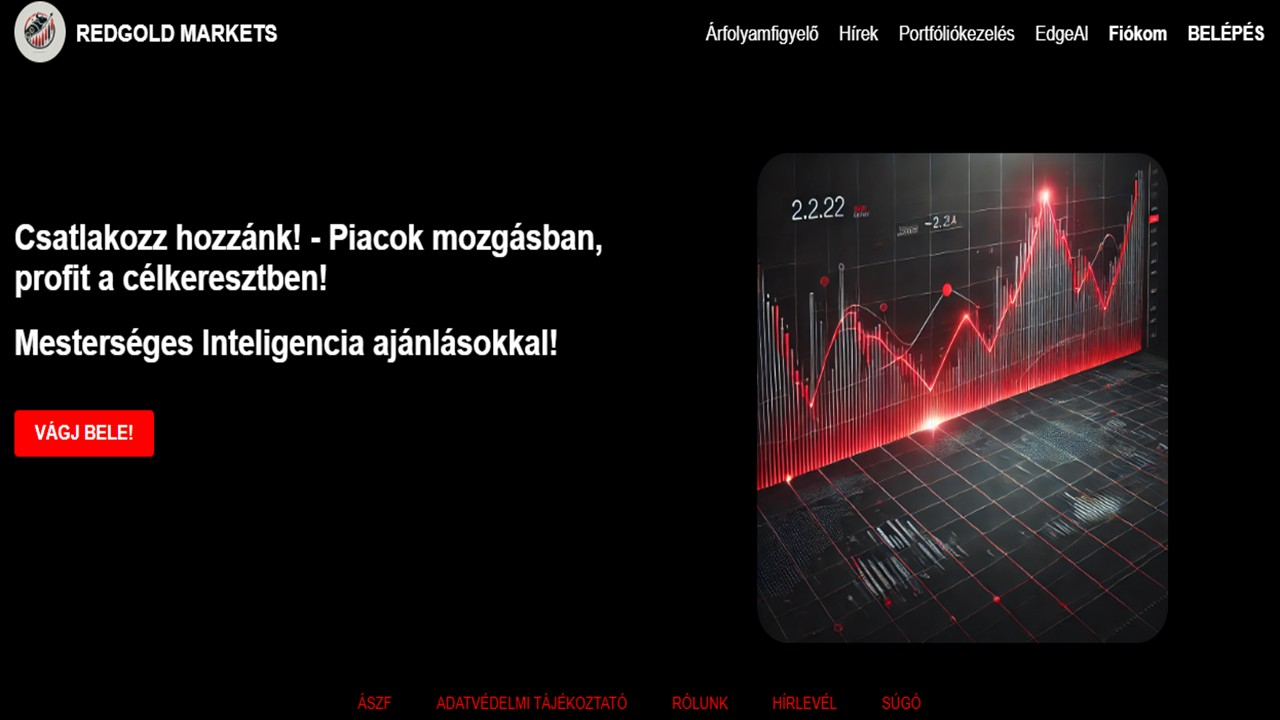
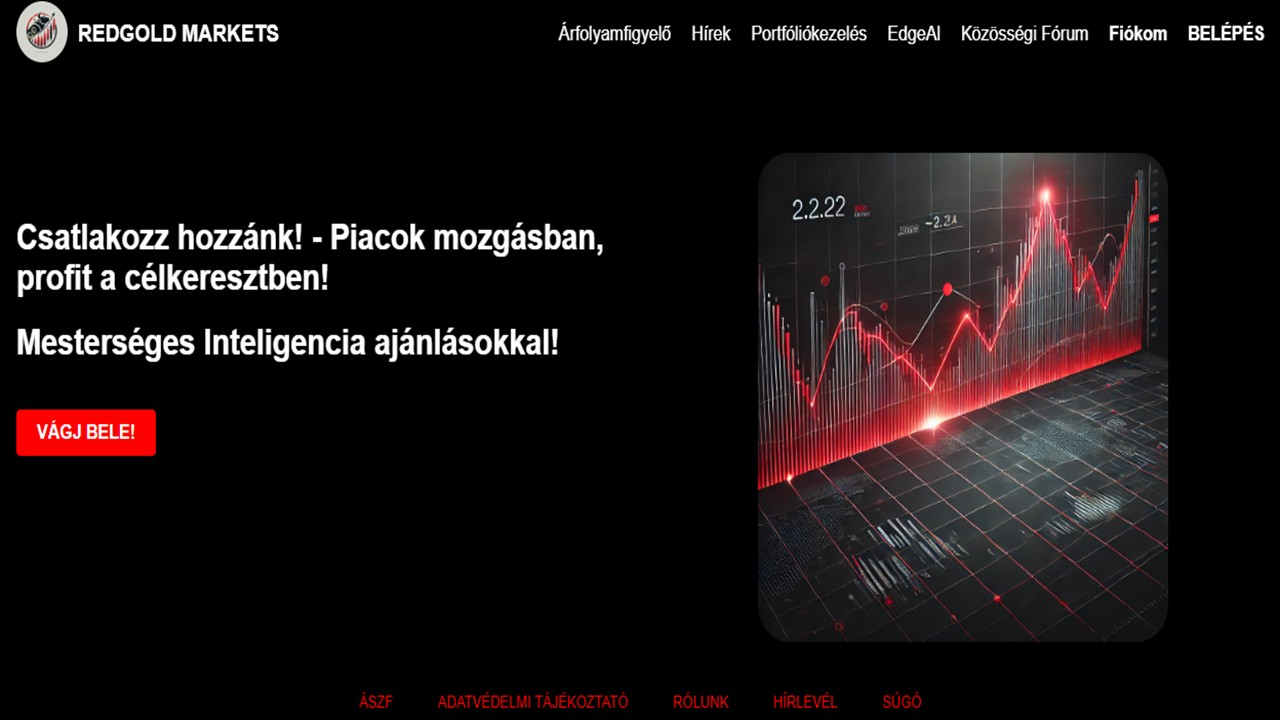
H3 - Két új fejezet hozzáadása.

diff --git a/tartalomjegyzek.html b/tartalomjegyzek.html
@@ -338,6 +338,9 @@
             <li><a href="H3.html#alfejezet3.4">&nbsp;&nbsp;&nbsp;&nbsp;3.4. Fiókkezelés</a></li>
             <li><a href="H3.html#alfejezet3.5">&nbsp;&nbsp;&nbsp;&nbsp;3.5. Bejeletkezés és Regisztráció</a></li>
             <li><a href="H3.html#alfejezet3.6">&nbsp;&nbsp;&nbsp;&nbsp;3.6. Friss tőzsdei hírek és Hírlevél feliratkozás</a></li>
+            <li><a href="H3.html#alfejezet3.7">&nbsp;&nbsp;&nbsp;&nbsp;3.7. Súgó</a></li>
+            <li><a href="H3.html#alfejezet3.8">&nbsp;&nbsp;&nbsp;&nbsp;3.8. Közösségi Fórum</a></li>
+            
             <li><a href="H3.html#alfejezet4">4. Használhatóság</a></li>
             <li><a href="H3.html#alfejezet4.1.">&nbsp;&nbsp;&nbsp;&nbsp;4.1. Felhasználói felület</a></li>
             <li><a href="H3.html#alfejezet4.2.">&nbsp;&nbsp;&nbsp;&nbsp;4.2. Tanulhatóság</a></li>

diff --git a/H3.html b/H3.html
@@ -513,6 +513,13 @@ A platformon megjelenő tőzsdei adatok és hírek külső szolgáltatóktól sz
     különösen hasznos azok számára, akik szeretnék folyamatosan követni a piaci fejleményeket, és tanulni a hírek hatásairól anélkül, hogy állandóan az 
     alkalmazásban kellene böngészniük.
     <br><br>
+
+    <h4 id="alfejezet3.7"><b>3.7 Súgó - Kristóf</b></h4> <br><br><br>
+
+    <h4 id="alfejezet3.8"><b>3.8 Közösségi Fórum - Ádám</b></h4> <br><br>
+
+
+
 </p>  
 
 
